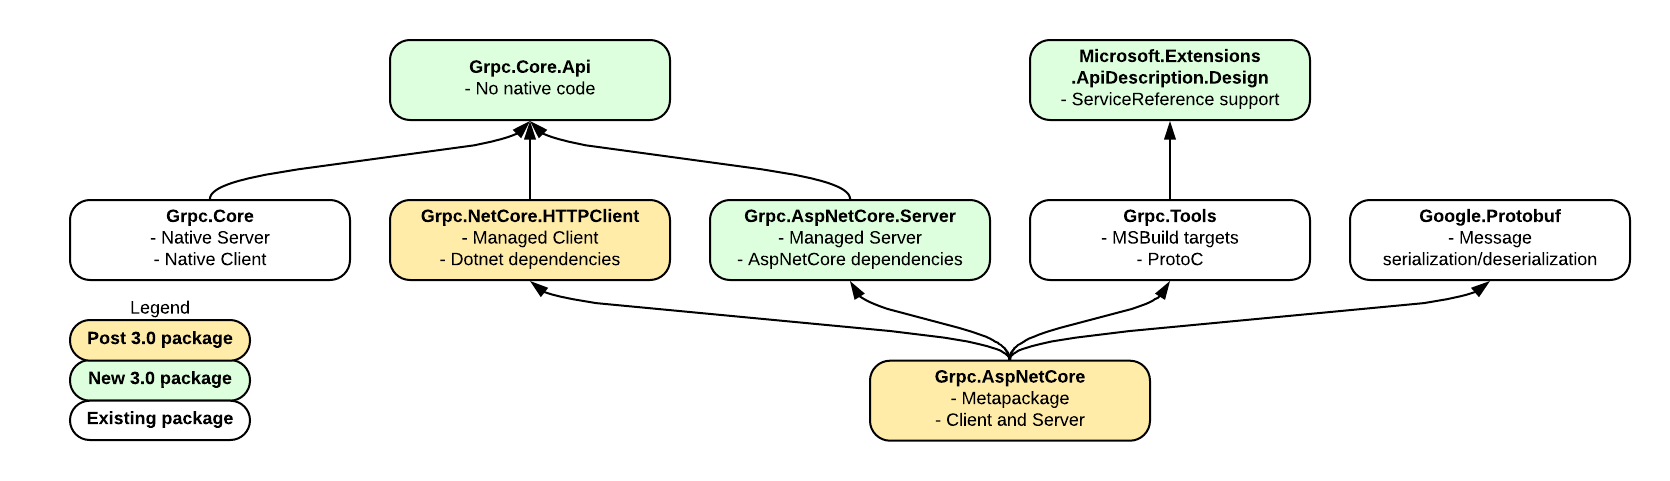
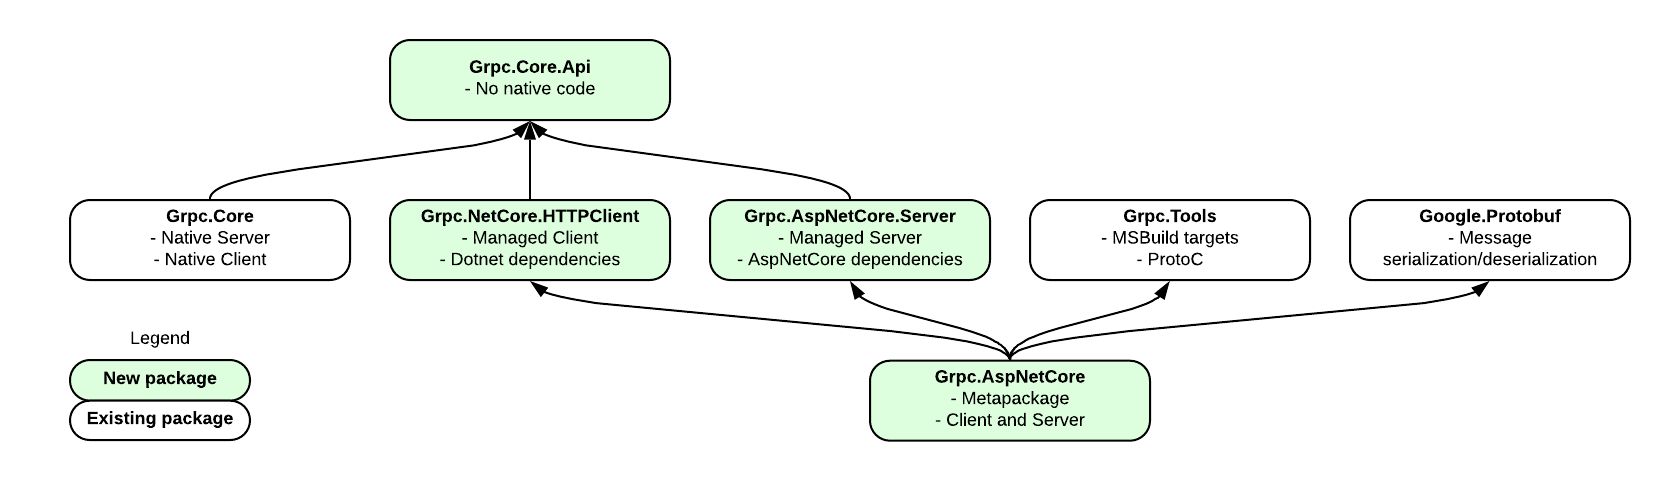
Update package doc (#213)

diff --git a/doc/packages.md b/doc/packages.md
@@ -8,7 +8,7 @@
 
 ### Grpc.AspNetCore
 
-We envision shipping both a managed client and managed server. Since gRPC services often act as both client and server, we want to make the consumption of both components as frictionless as possible. In addition to the server and client packages, the metapackage will also take dependencies on tooling support (code gen from Grpc.Tools and ServiceReference support from Microsoft.Extensions.ApiDescription.Design) and the default message protocol (Google.Protobuf).
+We envision shipping both a managed client and managed server. Since gRPC services often act as both client and server, we want to make the consumption of both components as frictionless as possible. In addition to the server and client packages, the metapackage will also take dependencies on tooling support (code gen from Grpc.Tools) and the default message protocol (Google.Protobuf).
 
 We want to distinguish these from the native clients and server so the package names will be prefixed with Grpc.AspNetCore/Grpc.NetCore. We don't expect most users to take a direct dependency on these packages so we will use a three-part name.
 
